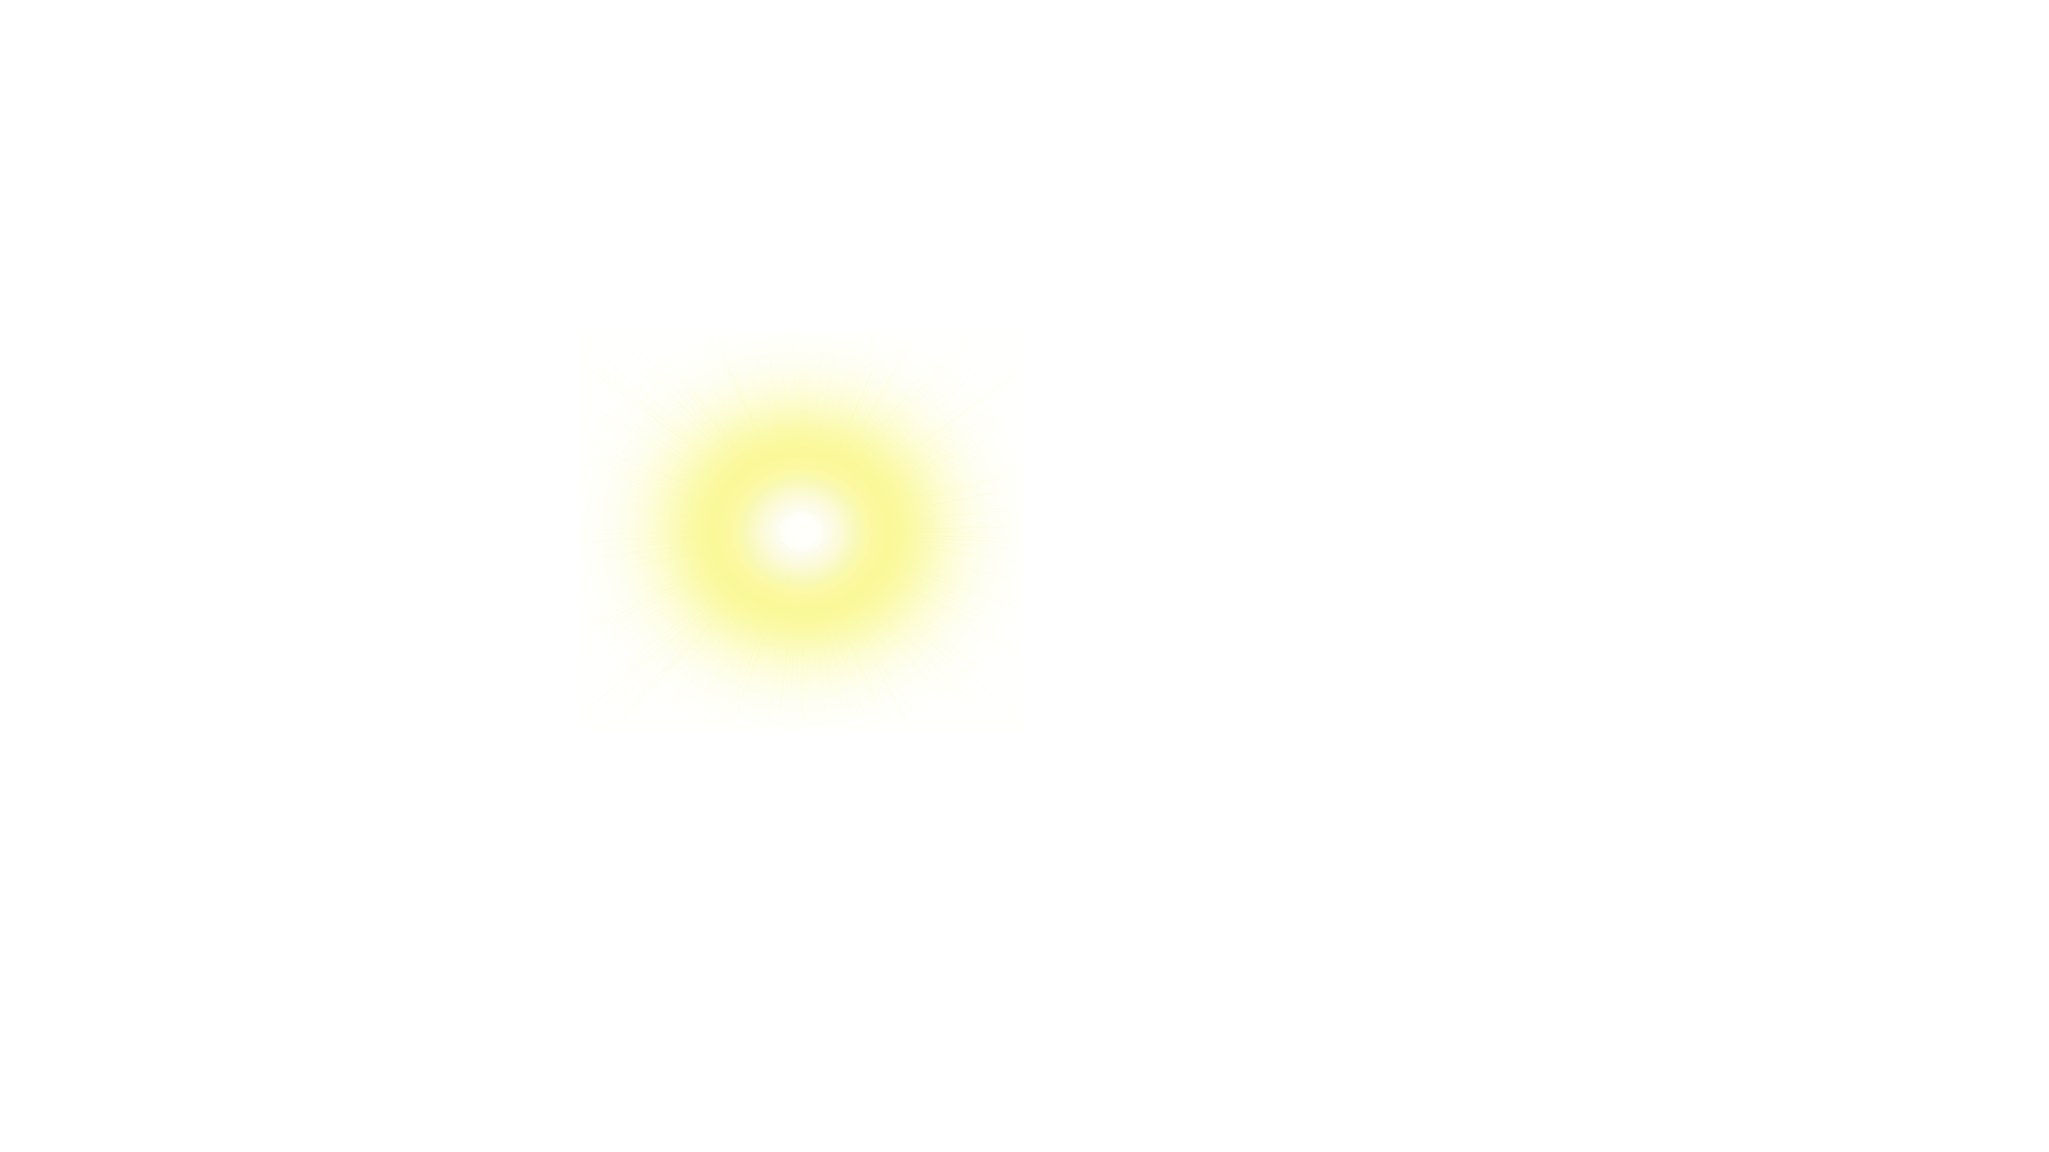
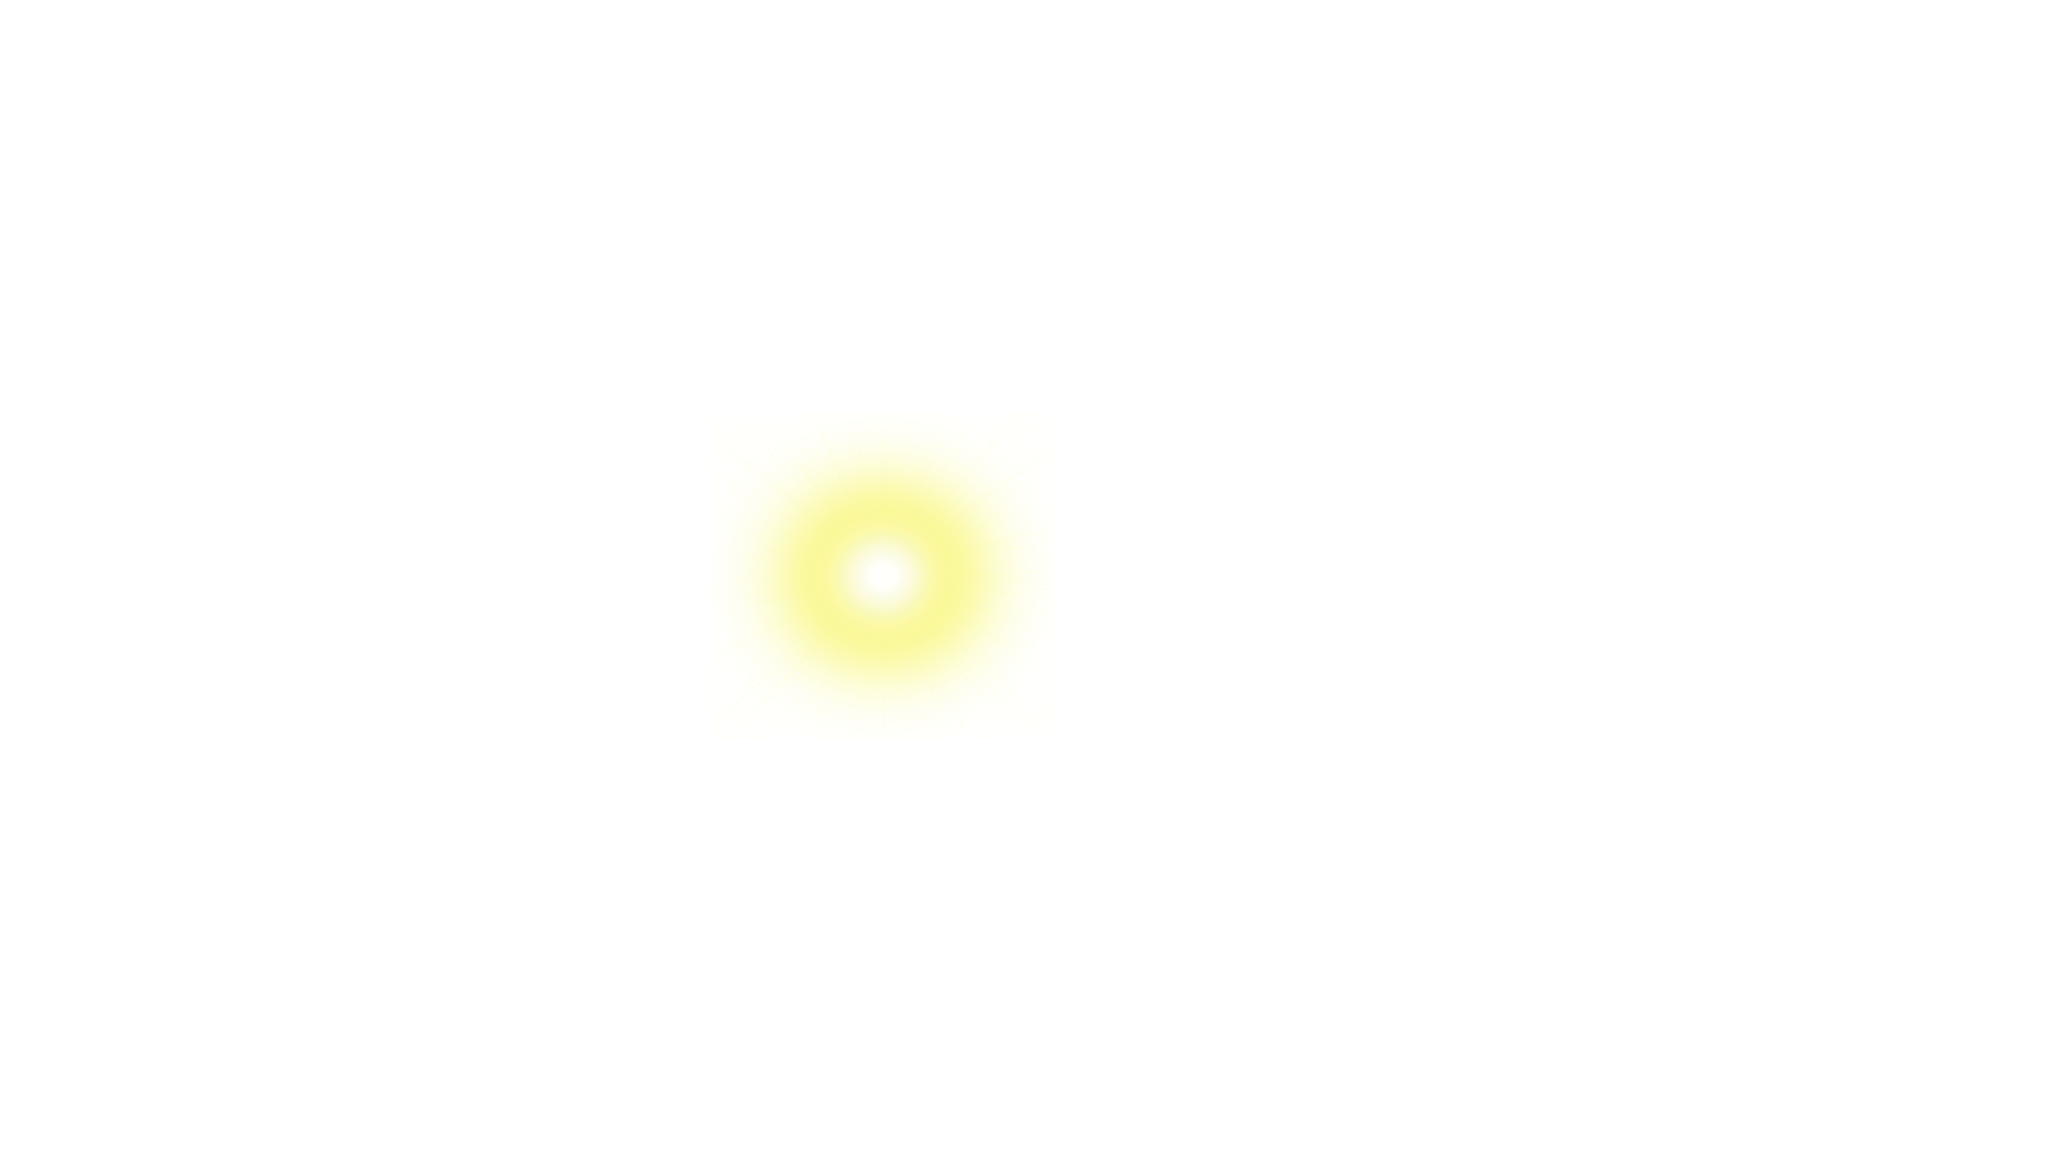
fix mobile 'sun'

Changed region(s): [[0.2811, 0.3125, 0.4998, 0.625]]

diff --git a/index.html b/index.html
@@ -23,7 +23,8 @@
 <section class="day">
     <img class="bg" src="img/bd-day.jpg" alt="">
     <picture>
-        <source srcset="./img/sun_mobile.png" media="(max-width: 800px)">
+        <source srcset="./img/sun_mobile.png" media="(max-width: 570px)">
+        <source srcset="./img/sun_tablet.png" media="(max-width: 800px)">
         <img class="sun" src="img/sun.png" alt="">
     </picture>
     <img class="mountain mountain_day" src="img/mountain.png" alt="">
